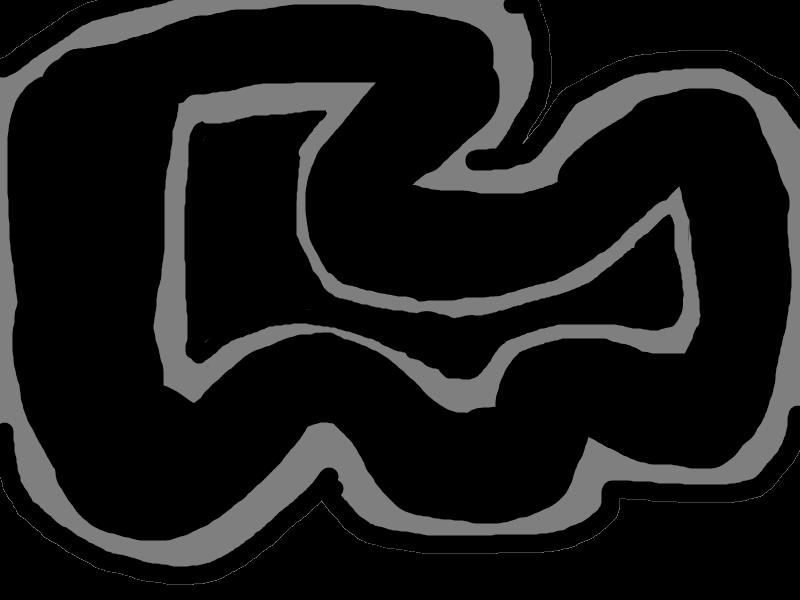
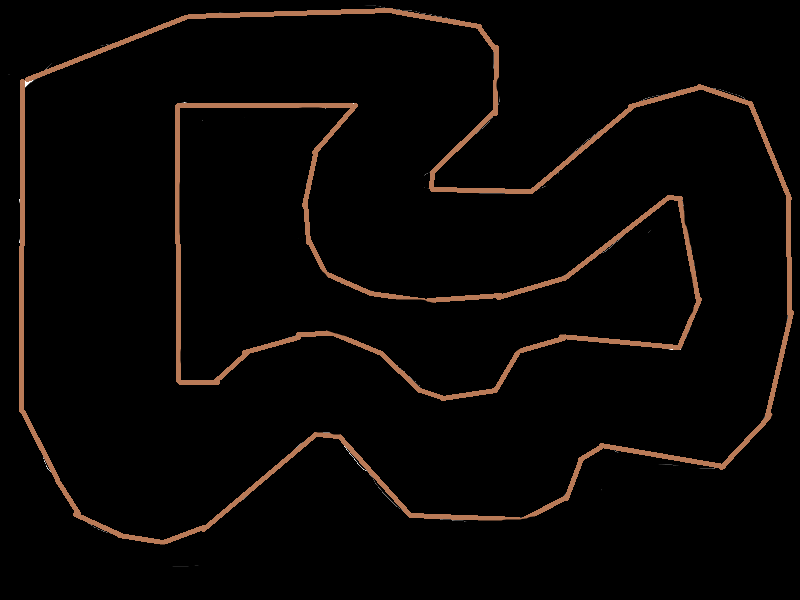
auto wall creators added and some fixes

Changed region(s): [[0.0, 0.0, 1.0, 0.96], [0.1875, 0.12, 0.875, 0.69]]

diff --git a/walls.py b/walls.py
@@ -1,6 +1,8 @@
-
-
+import cv2
+import numpy as np
 import pygame
+
+from CFG import ROAD_IMAGE_PATH, WIDTH, HEIGHT
 
 
 class Wall:
@@ -14,109 +16,55 @@ class Wall:
         pygame.draw.line(win, (255, 255, 255), (self.x1, self.y1), (self.x2, self.y2), 5)
 
 
-def getWalls():
+def generate_walls_from_image(image_path):
+    # Görüntüyü yükle
+    image = cv2.imread(image_path)
+    gray = cv2.cvtColor(image, cv2.COLOR_BGR2GRAY)
+
+    # Gürültü azaltmak için Gaussian Blur
+    # blurred = cv2.GaussianBlur(gray, (1, 1), 0)
+    blurred = image
+    # cv2.imshow("Blurred Image", blurred)
+    # cv2.waitKey(0)
+    # cv2.destroyAllWindows()
+
+    # Kenar algılama (Canny)
+    edges = cv2.Canny(blurred, 50, 150)
+
+    # cv2.imshow("Edges Image", edges)
+    # cv2.waitKey(0)
+    # cv2.destroyAllWindows()
+    # Konturların bulunması
+    contours, _ = cv2.findContours(edges, cv2.RETR_EXTERNAL, cv2.CHAIN_APPROX_SIMPLE)
+
     walls = []
+    for contour in contours:
+        # Konturu çokgen şeklinde basitleştir
+        epsilon = 0.005 * cv2.arcLength(contour, True)
+        approx = cv2.approxPolyDP(contour, epsilon, True)
 
-    wall1 = Wall(12, 451, 15, 130)
-    wall2 = Wall(15, 130, 61, 58)
-    wall3 = Wall(61, 58, 149, 14)
-    wall4 = Wall(149, 14, 382, 20)
-    wall5 = Wall(382, 20, 549, 31)
-    wall6 = Wall(549, 31, 636, 58)
-    wall7 = Wall(636, 58, 678, 102)
-    wall8 = Wall(678, 102, 669, 167)
-    wall9 = Wall(669, 167, 600, 206)
-    wall10 = Wall(600, 206, 507, 214)
-    wall11 = Wall(507, 214, 422, 232)
-    wall12 = Wall(422, 232, 375, 263)
-    wall13 = Wall(375, 263, 379, 283)
-    wall14 = Wall(379, 283, 454, 299)
-    wall15 = Wall(454, 299, 613, 286)
-    wall16 = Wall(613, 286, 684, 238)
-    wall17 = Wall(684, 238, 752, 180)
-    wall18 = Wall(752, 180, 862, 185)
-    wall19 = Wall(862, 185, 958, 279)
-    wall20 = Wall(958, 279, 953, 410)
-    wall21 = Wall(953, 410, 925, 505)
-    wall22 = Wall(925, 505, 804, 566)
-    wall23 = Wall(804, 566, 150, 570)
-    wall24 = Wall(150, 570, 46, 529)
-    wall25 = Wall(46, 529, 12, 451)
-    wall27 = Wall(104, 436, 96, 161)
-    wall28 = Wall(96, 161, 122, 122)
-    wall29 = Wall(122, 122, 199, 91)
-    wall30 = Wall(199, 91, 376, 94)
-    wall31 = Wall(376, 94, 469, 100)
-    wall32 = Wall(469, 100, 539, 102)
-    wall33 = Wall(539, 102, 585, 121)
-    wall34 = Wall(585, 121, 585, 139)
-    wall35 = Wall(585, 139, 454, 158)
-    wall36 = Wall(454, 158, 352, 183)
-    wall37 = Wall(352, 183, 293, 239)
-    wall38 = Wall(293, 239, 294, 318)
-    wall39 = Wall(294, 318, 361, 357)
-    wall40 = Wall(361, 357, 490, 373)
-    wall41 = Wall(490, 373, 671, 359)
-    wall42 = Wall(671, 359, 752, 300)  #
-    wall43 = Wall(752, 300, 812, 310)  #
-    wall44 = Wall(812, 310, 854, 369)
-    wall45 = Wall(854, 369, 854, 429)
-    wall46 = Wall(854, 429, 754, 483)
-    wall47 = Wall(754, 483, 192, 489)
-    wall48 = Wall(192, 489, 104, 436)
+        # Kontur noktalarını al ve çizgiler oluştur
+        for i in range(len(approx)):
+            x1, y1 = approx[i][0]
+            x2, y2 = approx[(i + 1) % len(approx)][0]
+            walls.append(Wall(x1, y1, x2, y2))
 
-    walls.append(wall1)
-    walls.append(wall2)
-    walls.append(wall3)
-    walls.append(wall4)
-    walls.append(wall5)
-    walls.append(wall6)
-    walls.append(wall7)
-    walls.append(wall8)
-    walls.append(wall9)
-    walls.append(wall10)
-    walls.append(wall11)
-    walls.append(wall12)
-    walls.append(wall13)
-    walls.append(wall14)
-    walls.append(wall15)
-    walls.append(wall16)
-    walls.append(wall17)
-    walls.append(wall18)
-    walls.append(wall19)
-    walls.append(wall20)
-    walls.append(wall21)
-    walls.append(wall22)
-    walls.append(wall23)
-    walls.append(wall24)
-    walls.append(wall25)
+    return walls
 
-    walls.append(wall27)
-    walls.append(wall28)
-    walls.append(wall29)
-    walls.append(wall30)
-    walls.append(wall31)
-    walls.append(wall32)
-    walls.append(wall33)
-    walls.append(wall34)
-    walls.append(wall35)
-    walls.append(wall36)
-    walls.append(wall37)
-    walls.append(wall38)
-    walls.append(wall39)
-    walls.append(wall40)
-    walls.append(wall41)
-    walls.append(wall42)
-    walls.append(wall43)
-    walls.append(wall44)
-    walls.append(wall45)
-    walls.append(wall46)
-    walls.append(wall47)
-    walls.append(wall48)
-
-    return (walls)
 
 if __name__ == "__main__":
-    walls = getWalls()
+    # Resim dosyasının yolunu ayarla
+    image_path = ROAD_IMAGE_PATH
+    walls = generate_walls_from_image(image_path)
+
+    # Pygame'de görselleştirme (isteğe bağlı)
+    pygame.init()
+    win = pygame.display.set_mode((WIDTH, HEIGHT))
+    win.fill((0, 0, 0))
+
     for wall in walls:
-        print(f"Duvar Koordinatları: ({wall.x1}, {wall.y1}) -> ({wall.x2}, {wall.y2})")
+        wall.draw(win)
+
+    pygame.display.update()
+    pygame.time.wait(3000)
+    pygame.quit()

diff --git a/main.py b/main.py
@@ -17,7 +17,7 @@ pygame.display.set_caption("Gerçekçi Araba Sürüşü")
 clock = pygame.time.Clock()
 
 
-road_img = pygame.image.load("images/track2.png").convert()
+road_img = pygame.image.load(ROAD_IMAGE_PATH).convert()
 # grass_img = pygame.image.load("images/grass.jpg").convert()
 # track = pygame.image.load("images/track.png").convert()
 
@@ -27,7 +27,10 @@ SPAWN_POINT = (150, 100, 90)
 
 # main.py
 
-from walls import getWalls
+import walls
+image_path = ROAD_IMAGE_PATH  # Buraya PNG dosyasının yolunu yazın
+walls = walls.generate_walls_from_image(image_path)
+print(len(walls))
 
 class Game:
     def __init__(self):
@@ -43,8 +46,10 @@ class Game:
             keys = pygame.key.get_pressed()
             self.car.update(keys)
 
-            screen.fill(GRAY)
-            screen.blit(road_img, (0, 0))
+            screen.fill(color=(0,160,10))
+            # screen.blit(road_img, (0, 0))
+            for wall in walls:
+                wall.draw(screen)
 
             self.car.draw(screen)  # Araba ve ışınları çiz
 

diff --git a/car.py b/car.py
@@ -1,7 +1,13 @@
 import pygame
 import math
+
+from CFG import ROAD_IMAGE_PATH
 from ray import Ray
-from walls import getWalls
+import walls
+
+image_path = ROAD_IMAGE_PATH  # Buraya PNG dosyasının yolunu yazın
+walls = walls.generate_walls_from_image(image_path)
+
 
 class Car:
     def __init__(self, image_path, scale_factor=0.1, start_x=0, start_y=0, start_angle=130):
@@ -49,7 +55,7 @@ class Car:
             ray.start_x = self.rect.centerx
             ray.start_y = self.rect.centery
             ray.angle = self.angle + self.ray_offsets[i]  # Arabanın açısına offset ekleyerek güncelle
-            ray.cast(getWalls())  # Çarpışma tespiti
+            ray.cast(walls)  # Çarpışma tespiti
 
     def draw(self, screen):
         """

diff --git a/CFG.py b/CFG.py
@@ -1,4 +1,3 @@
-WIDTH, HEIGHT = 800, 600
 WHITE = (255, 255, 255)
 BLACK = (0, 0, 0)
 GRAY = (128, 128, 128)
@@ -6,6 +5,11 @@ HALF_RED  = (0, 250, 0, 128)
 
 GRAY = (128,128,128)
 CAR_IMAGE_PATH = 'images/car.png'
-ROAD_IMAGE_PATH = "images/road2.png"
+ROAD_IMAGE_PATH = "images/road4.png"
+
+import pygame
+image = pygame.image.load(ROAD_IMAGE_PATH)
+WIDTH, HEIGHT = image.get_size()
+
 
 P_YELLOW = (255, 255, 0)
